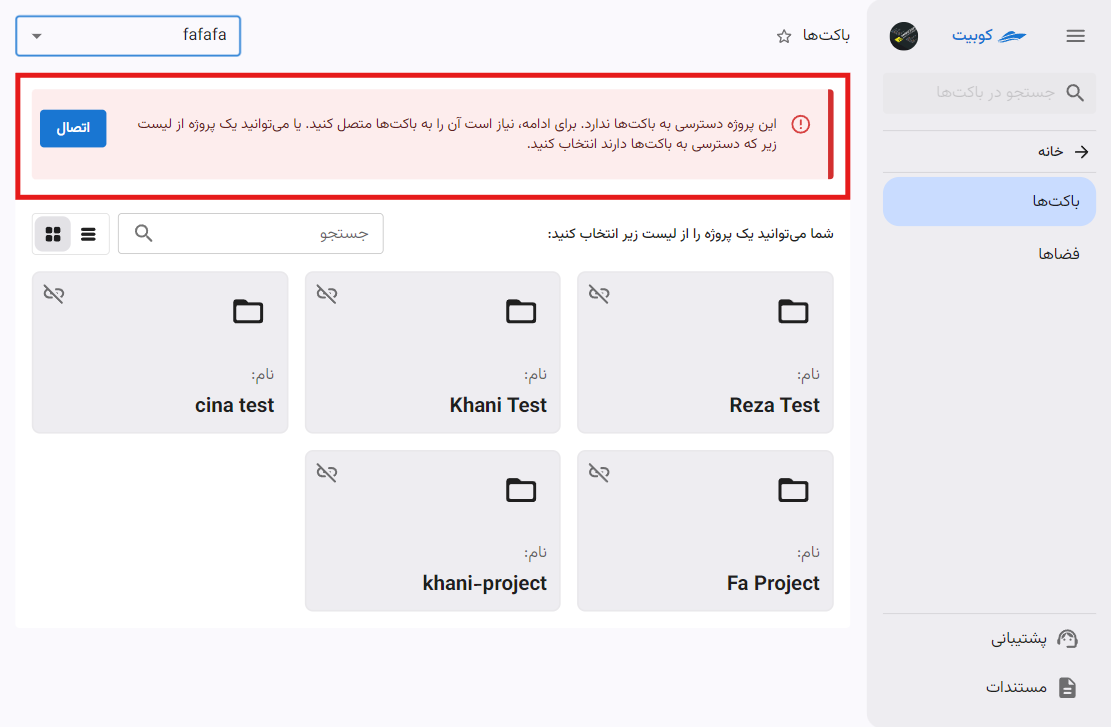
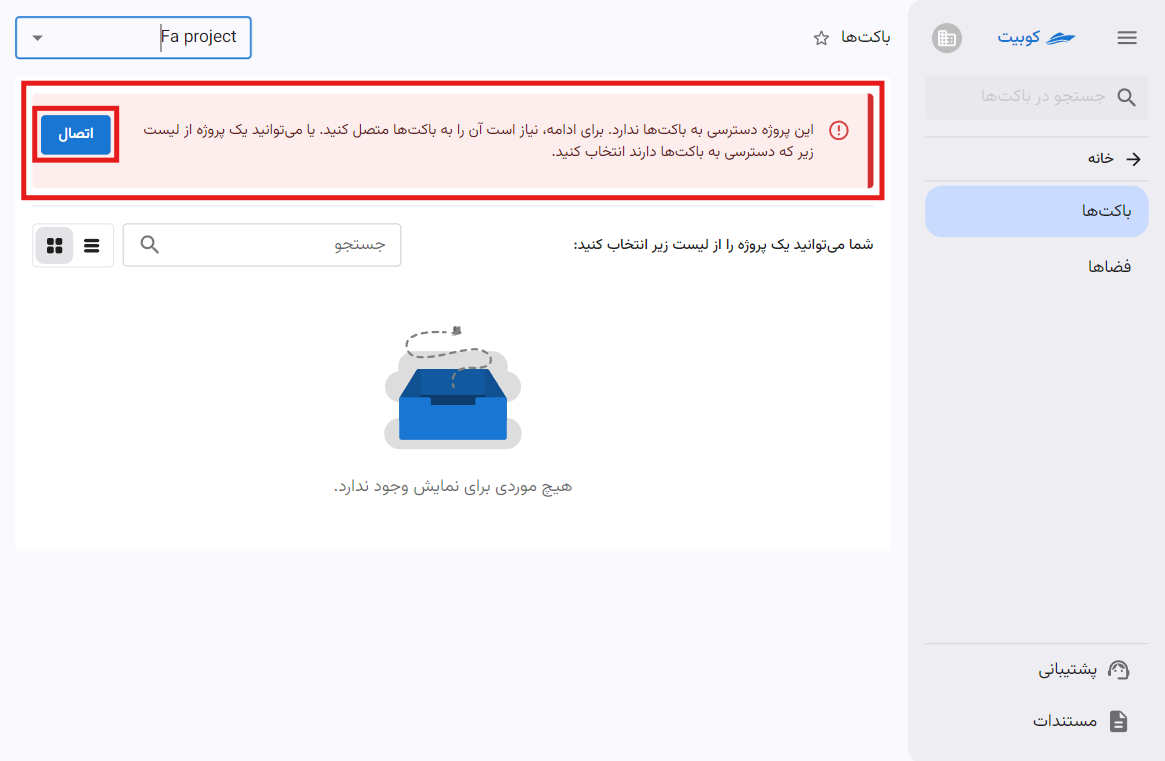
update bind project to bucket imgs

diff --git a/docs/fa/buckets/bucket-settings.md b/docs/fa/buckets/bucket-settings.md
@@ -1,13 +1,24 @@
 # مدیریت سرویس باکتها
 
 در بخش باکتهای پنل کوبیت، دسترسی به **باکتها** و **فضاها** فراهم شده است.
-
-همانطور که در [مفاهیم پایه](../#concepts) ذکر شد، باکتها با فضا و فضاها با پروژهها معنی پیدا میکنند. بنابراین، باکتهای یک سازمان توسط پروژهها تفکیک میشوند. برای دسترسی به مدیریت باکتها، ابتدا باید یک پروژه را انتخاب کنید.
-
-## انتخاب پروژه{#select-project}
+همانطور که در [مفاهیم پایه](../#concepts) ذکر شد، باکتها با فضا و فضاها با پروژهها معنی پیدا میکنند. بنابراین، باکتهای یک سازمان توسط پروژهها تفکیک میشوند. برای شروع کار با باکتها، ابتدا باید یکی از پروژههایی که قبلا در قسمت سازماندهی ساختهاید را به این سرویس متصل کنید، یا یکی از پروژههای متصل به باکت را انتخاب کنید.
 
 ابتدا از پنل کوبیت، وارد سرویس **باکتها** شوید:
 ![Buckets: bucket](bucket.png)
+
+## اتصال پروژه به سرویس باکت
+
+- از طریق گزینه **همهی پروژهها**، لیست پروژههای فعلی سازمان را باز کنید.
+- از گزینه همهی پروژههای سازمان، پروژه موردنظر خود را انتخاب کنید.
+- سپس خطای عدم اتصال پروژه ظاهر میشود. برای اتصال پروژه، روی دکمه **اتصال** کلیک کنید.
+
+![Buckets: empty project list](empty-project-list.png)
+![Buckets: project lists](project-lists.png)
+![Buckets: bind project](bind-project.png)
+
+در انتها، پروژه به سرویس باکت متصل شده و به صفحه باکتهای پروژه هدایت میشوید.
+
+## انتخاب پروژه{#select-project}
 
 در صفحه اول سرویس، لیستی از پروژههای متصل قابل مشاهده است. ابتدا باید پروژه موردنظر را از میان این لیست انتخاب کنید:
 ![Buckets: select project](select-project.png)
@@ -23,19 +34,6 @@
 
 در انتهای صفحه نیز، لیست باکتهای سازمان وجود دارد:
 ![Buckets: buckets list](buckets_2.png)
-
-## اتصال پروژه به سرویس باکت
-
-در صورتی که لیست پروژههای متصل خالی باشد، باید از طریق گزینه **همهی پروژهها**، پروژه موردنظر خود را انتخاب و به سرویس باکتها متصل کنید:
-![Buckets: empty project list](empty-project-list.png)
-
-از گزینه همهی پروژههای سازمان، پروژه موردنظر خود را انتخاب کنید:
-![Buckets: project lists](project-lists.png)
-
-سپس خطای عدم اتصال پروژه را مشاهده میکنید. برای اتصال پروژه، روی دکمه **اتصال** کلیک کنید:
-![Buckets: bind project](bind-project.png)
-
-در انتها، پروژه به سرویس باکت متصل شده و به صفحه باکتهای پروژه هدایت میشوید.
 
 ## قطع اتصال پروژه
 
